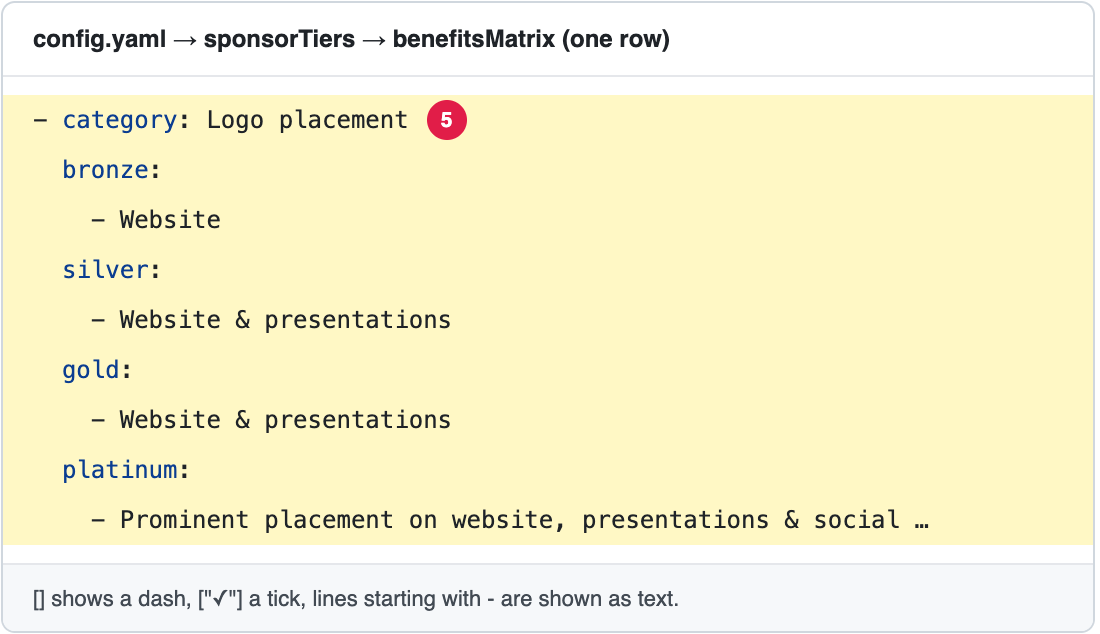
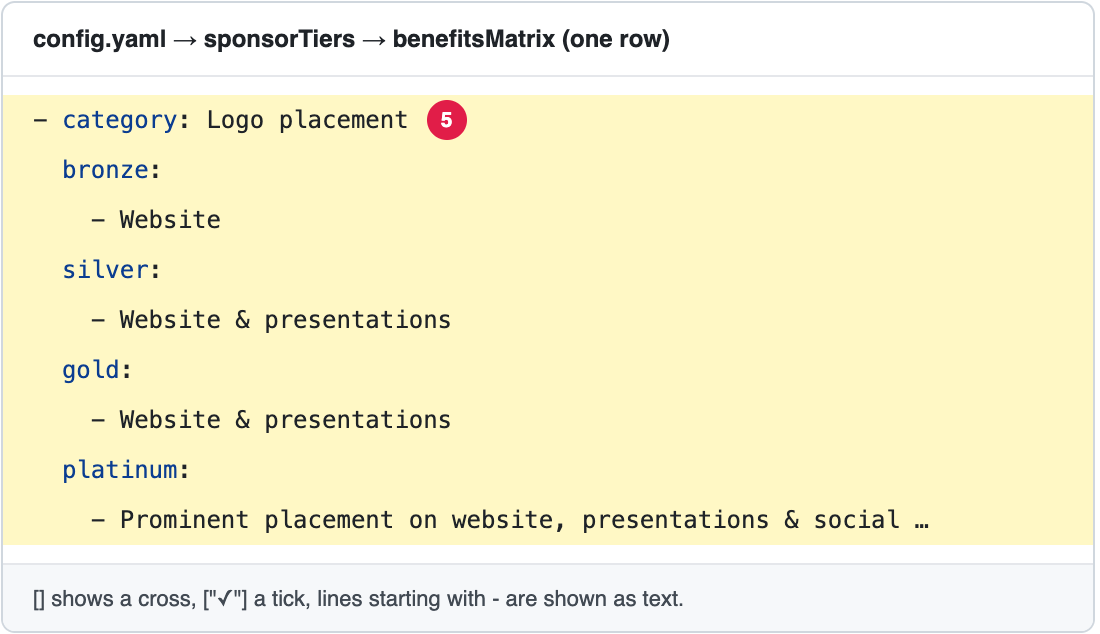
Docs: guide for the benefits of the sponsorship levels
Add sponsorship-program/update-benefits.md: how benefitsMatrix feeds
both the level cards (the first 3 benefits of each level) and the
Benefit comparison table, what [], ["✓"] and text lines show, how to
change, add, reorder and remove a benefit, and the related settings
(benefitsTitle, taxFootnote, featuredLevel, showInProgram). Four
numbered screenshots.

Fix the levels guide and its screenshot: an empty cell shows a cross,
not a dash.

Changed region(s): [[0.1236, 0.929, 0.6182, 0.959]]

diff --git a/docs/common-tasks/sponsorship-program/update-benefits.md b/docs/common-tasks/sponsorship-program/update-benefits.md
@@ -1,0 +1,100 @@
+# Change the benefits of the sponsorship levels
+
+The page **Our Sponsorship Program** (**https://openms.de/sponsor-us/**) shows what each sponsorship level (Bronze, Silver, Gold, Platinum) gets. The benefits are written **once**, in one list in `config.yaml` called `benefitsMatrix`, and the page shows them in **two places**:
+
+- on each **level card**: the first 3 benefits of that level;
+- in the **Benefit comparison** table under the cards: every benefit, for every level. Clicking a card, or a level's name at the top of the table, highlights that level's column.
+
+**You will change:** a few lines in `config.yaml` (search for `benefitsMatrix:`)  ·  **Time:** about 15 minutes  ·  **Skills needed:** none
+
+**On the website**
+
+![The Benefit comparison table: 1 a benefit, 2 a cross, 3 text, 4 a tick](../../images/sponsorship-program/5-benefits-table-on-site.png)
+
+![The Silver card: 5 its first three benefits](../../images/sponsorship-program/6-benefits-on-card.png)
+
+**In `config.yaml`**
+
+![One benefit in benefitsMatrix with matching numbers](../../images/sponsorship-program/7-benefit-row-config.png)
+
+![A benefit that every level has, written with ticks](../../images/sponsorship-program/8-tick-row-config.png)
+
+## How one benefit is written
+
+Each benefit is **one row** of the table. It starts with `- category:` (the name of the benefit), followed by **one entry per level**:
+
+```yaml
+          - category: Annual Developer Retreat perks
+            bronze: []
+            silver:
+              - 1 discounted registration pass (20% off)
+            gold:
+              - 1 free registration pass
+              - Opportunity to host a technical session, workshop, or case study presentation
+            platinum:
+              - 3 free registration passes
+              - Opportunity to host a technical session, workshop, or case study presentation
+```
+
+What you write for a level decides what its cell shows:
+
+| You write | The table shows | The level card shows |
+|-----------|-----------------|----------------------|
+| `bronze: []` (or no `bronze:` line at all) | a **cross**: not included | nothing |
+| `bronze: ["✓"]` | a **tick**: included | the **name** of the benefit (the `category`) |
+| one or more lines starting with `- ` under `bronze:` | each line as **text** | the **first line** only |
+
+The words `bronze`, `silver`, `gold` and `platinum` must be **exactly** the `id` of each level (search for `levels:`). Small letters, no spaces.
+
+## Change a benefit
+
+1. Open **https://github.com/OpenMS/OpenMS-website/blob/main/config.yaml** and click the **pencil icon**. ([Need help?](../../getting-started/edit-via-github.md#step-1--open-the-file))
+2. Click inside the text box, press **Ctrl + F** (Windows) or **Cmd + F** (Mac) and search for the name of the benefit, for example `Logo placement`.
+3. Change what you need:
+   - **The name of the benefit:** the words after `category:`.
+   - **The text for one level:** the lines under that level. Keep the `- ` at the start of each line, and the same spaces as the lines around it.
+   - **Give a level the benefit:** replace `[]` with `["✓"]`, or with text lines.
+   - **Take the benefit away from a level:** replace what is after the level's name with `[]`, and delete its text lines.
+4. Save and send for review: [How to make a change, steps 3 to 6](../../getting-started/edit-via-github.md#step-3--save-commit-changes).
+5. Open the **Deploy Preview**, go to **/sponsor-us/**, and check both the cards and the table. Click each level to see its column.
+
+## Add a benefit
+
+1. Open `config.yaml` as above and search for `benefitsMatrix:`.
+2. Copy a whole row, from its `- category:` line down to the line before the next `- category:`.
+3. Paste it where the new benefit should go, and change it. The `-` of `- category:` must be under the other `-` signs.
+4. Save, send for review, and check.
+
+> **The order matters.** The table shows the benefits in the order of the list. The **cards** show only the **first 3** benefits that a level has, in that same order. To show a benefit on the cards, put it near the top.
+
+## Remove a benefit
+
+Delete its whole row, from `- category:` to the line before the next `- category:`. Check that the cards still show the 3 benefits you want.
+
+## Other parts of the benefits
+
+Search for these words in `config.yaml`, inside `sponsorTiers:`:
+
+| Search for | What it is |
+|------------|-----------|
+| `benefitsTitle:` | The heading of the table ("Benefit comparison"). |
+| `taxFootnote:` | The small note under the table ("*where applicable by law"). It explains the `*` in the benefit "Tax-deductible\*". If you remove that `*`, you can also empty this note. |
+| `featuredLevel:` | The level with the **"Most popular"** badge, whose column is highlighted when the page opens. Write the level's `id`, for example `gold`. |
+| `showInProgram:` (in each level under `levels:`) | `true` shows the level, `false` hides its card **and** its column. Use it to prepare a new level before it goes live. |
+
+The sentence under the table heading ("Compare acknowledgment and engagement benefits across levels.") and the "Learn more" button are part of the design. Ask the web team to change them ([Who to ask](../../workflow/who-to-ask.md)).
+
+## Common mistakes
+
+| What went wrong | How to fix it |
+|-----------------|---------------|
+| The preview says **Failed** | The spaces at the start of a line are wrong, or a `-` is missing. Compare with the rows around it. See [Spaces matter](../../getting-started/edit-via-github.md#spaces-matter-in-configyaml). |
+| A level shows a cross where it should have the benefit | Its name is spelled differently from the level's `id` (for example `Gold` instead of `gold`), or its lines are not indented under it. |
+| The tick shows as text "✓" | Write it exactly as `["✓"]`, with the square brackets and the quotes. |
+| A benefit is missing on a card | The card shows only the first 3 benefits of that level. Move the row higher in the list. |
+
+## Related guides
+
+- [Change the sponsorship levels](update-levels.md) (name, price, motto, text of each level)
+- [Add, change or remove a sponsor logo](../our-sponsors/update-sponsors.md)
+- Back to the [list of all tasks](../README.md)

diff --git a/docs/common-tasks/README.md b/docs/common-tasks/README.md
@@ -58,7 +58,7 @@ Every page of the website has **its own folder** here. The folders follow the **
 |------|--------|-------|
 | **Governance** (`/governance/`) | `governance/` | [Change the intro text](governance/edit-intro-text.md) |
 | **Our Sponsors** (`/our-sponsors/`) | `our-sponsors/` | [Add, change or remove a sponsor logo](our-sponsors/update-sponsors.md) |
-| **Our Sponsorship Program** (`/sponsor-us/`, also the **Sponsor Us** button) | `sponsorship-program/` | [Change the levels and benefits](sponsorship-program/update-levels.md) |
+| **Our Sponsorship Program** (`/sponsor-us/`, also the **Sponsor Us** button) | `sponsorship-program/` | [Change the levels](sponsorship-program/update-levels.md) · [Change the benefits](sponsorship-program/update-benefits.md) |
 | **Research Partnerships** (`/research-partnerships/`, also the **Partner with OpenMS** button) | `research-partnerships/` | [Change the intro](research-partnerships/edit-partners.md) · [Add, change or remove a partner logo](research-partnerships/update-partner-logos.md) |
 | **Publications** (`/publications/`) | `publications/` | [Add or remove a paper](publications/add-or-remove-paper.md) · [Google Scholar link](publications/edit-google-scholar-link.md) |
 | **Leadership** (`/contributors/`) | `leadership/` | [Update the board of directors](leadership/update-board-of-directors.md) · [Update the Executive Committee](leadership/update-executive-committee.md) |

diff --git a/docs/README.md b/docs/README.md
@@ -35,7 +35,7 @@ The guides are in **[`common-tasks/`](common-tasks/README.md)**, with **one fold
 | **Scientific and Technical Support** | [Intro text](common-tasks/scientific-and-technical-support/edit-intro-text.md) |
 | **Governance** | [Intro text](common-tasks/governance/edit-intro-text.md) |
 | **Our Sponsors** | [Add, change or remove a sponsor logo](common-tasks/our-sponsors/update-sponsors.md) |
-| **Our Sponsorship Program** | [Levels and benefits](common-tasks/sponsorship-program/update-levels.md) |
+| **Our Sponsorship Program** | [Levels](common-tasks/sponsorship-program/update-levels.md) · [Benefits](common-tasks/sponsorship-program/update-benefits.md) |
 | **Research Partnerships** | [Intro text](common-tasks/research-partnerships/edit-partners.md) · [Partner logos](common-tasks/research-partnerships/update-partner-logos.md) |
 | **Publications** | [Add or remove a paper](common-tasks/publications/add-or-remove-paper.md) · [Google Scholar link](common-tasks/publications/edit-google-scholar-link.md) |
 | **Leadership** | [Board of directors](common-tasks/leadership/update-board-of-directors.md) · [Executive Committee](common-tasks/leadership/update-executive-committee.md) |

diff --git a/docs/common-tasks/sponsorship-program/update-levels.md b/docs/common-tasks/sponsorship-program/update-levels.md
@@ -59,11 +59,13 @@ Each row of the table is one `category`, with one entry per level:
 
 | You write | The table shows |
 |-----------|-----------------|
-| `[]` | a dash: not included |
+| `[]` | a cross: not included |
 | `["✓"]` | a tick: included |
 | lines starting with `- ` | each line as text |
 
 To **add a row**, copy a whole `- category:` block and change it. To **remove a row**, delete its whole block.
+
+The full guide for the benefits, with pictures: [Change the benefits of the sponsorship levels](update-benefits.md).
 
 ## Step by step
 
@@ -75,5 +77,6 @@ To **add a row**, copy a whole `- category:` block and change it. To **remove a 
 
 ## Related guides
 
+- [Change the benefits of the sponsorship levels](update-benefits.md)
 - [Add, change or remove a sponsor logo](../our-sponsors/update-sponsors.md)
 - Back to the [list of all tasks](../README.md)
